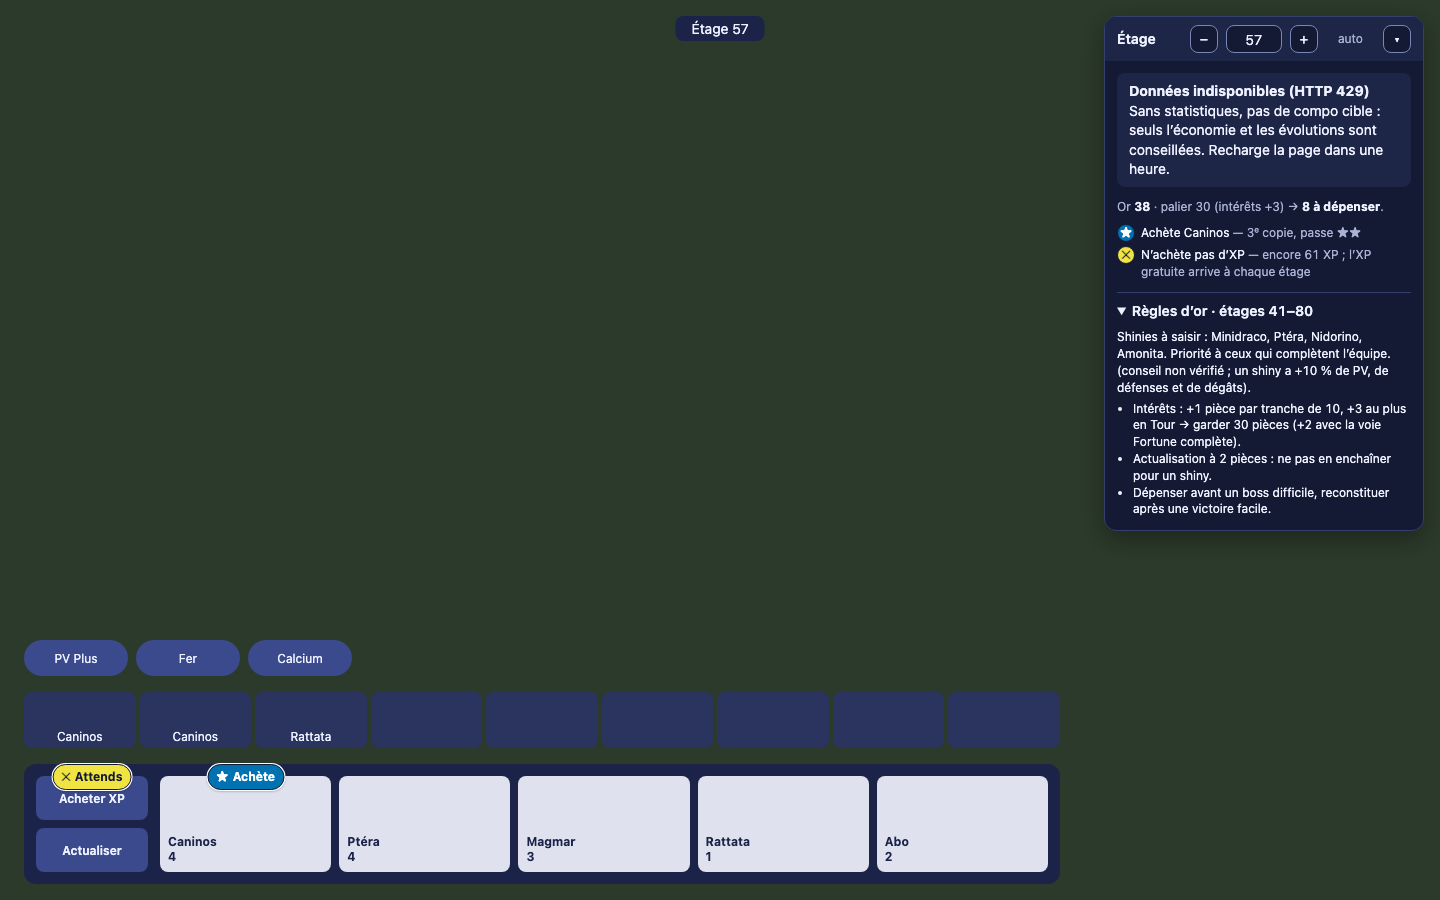
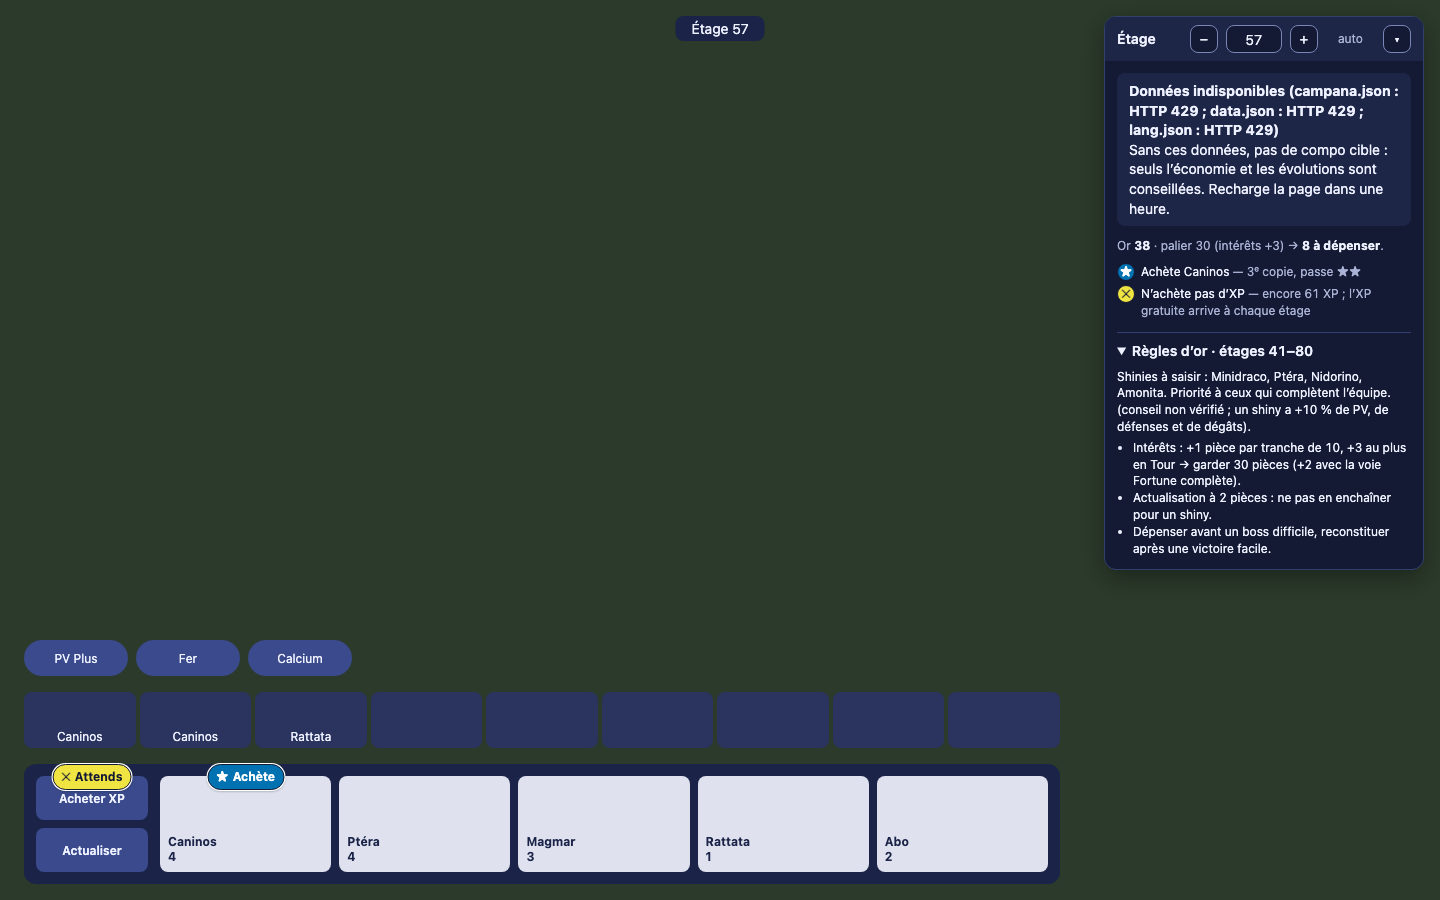
Revue 1 : sources indépendantes, or réel, focus préservé
Chargement source par source (le boss reste affiché si data.json ou
lang.json échoue), lecture du corps sous le repli réseau, Cache Storage
indisponible signalé, étage manuel conservé, ★ seulement si l'or suffit,
pas de fusion impossible ni de sceau risqué conseillé, pastilles et
panneau réécrits seulement s'ils changent.

Changed region(s): [[0.75, 0.0933, 1.0, 0.6533]]

diff --git a/kanto-overlay.user.js b/kanto-overlay.user.js
@@ -161,9 +161,12 @@ const KT = (() => {
     return save !== null && typeof save === 'object' && Number.isFinite(save.round) ? save : null;
   }
 
+  const floorOf = round => Math.max(1, Math.floor(round) - ROUND_BASE + 1);
+  const coreKey = core => [...core].sort().join('+');
+
   function floorFromSave(raw) {
     const save = parseSave(raw);
-    return save && Math.max(1, Math.floor(save.round) - ROUND_BASE + 1);
+    return save && floorOf(save.round);
   }
 
   function parseStop(stop) {
@@ -190,7 +193,7 @@ const KT = (() => {
       && d.recipes.every(r => Array.isArray(r) && r.length === 3);
   }
 
-  const isLang = l => isObject(l?.items) && isObject(l.seals) && isObject(l.types);
+  const isLang = l => isObject(l?.items) && isObject(l.seals);
 
   const isFresh = (at, now) => Number.isFinite(at) && now - at >= 0 && now - at < CACHE_MAX_AGE;
 
@@ -244,7 +247,6 @@ const KT = (() => {
       stage: (base, n) => LINES[base]?.[n] ?? base,
       item: id => lang?.items[id]?.name ?? id,
       seal: id => lang?.seals[id]?.name ?? id,
-      type: id => lang?.types[id] ?? id,
     };
   }
 
@@ -271,7 +273,7 @@ const KT = (() => {
       ...(save.bench ?? []).map((id, slot) => ({ id, slot })).filter(p => p.id)];
     const units = placed.map(p => ({ ...save.units[p.id], ...p })).filter(u => typeof u.line === 'string');
     return {
-      floor: Math.max(1, Math.floor(save.round) - ROUND_BASE + 1),
+      floor: floorOf(save.round),
       gold: save.gold, level: save.level, xp: save.xp, hp: save.hp,
       units,
       bench: save.bench ?? [],
@@ -300,7 +302,7 @@ const KT = (() => {
     const floor = goldFloor(game.boons);
     const allIn = game.hp < LOW_HP || (here !== undefined && here.win < HARD_WIN);
     const nextWall = stops.find(s => s.win < HARD_WIN) ?? null;
-    return { gold: game.gold, floor, spend: Math.max(0, game.gold - floor), allIn, lowHp: game.hp < LOW_HP, nextWall };
+    return { gold: game.gold, floor, spend: allIn ? game.gold : Math.max(0, game.gold - floor), allIn, lowHp: game.hp < LOW_HP, nextWall };
   }
 
   function lineLo(torre, id) {
@@ -309,7 +311,7 @@ const KT = (() => {
 
   function coreScore(core, stops, coresByStop, game) {
     const total = stops.reduce((s, st) => s + st.weight, 0);
-    const key = [...core].sort().join('+');
+    const key = coreKey(core);
     const stat = stops.reduce((s, st) => s + st.weight * (coresByStop.get(st.stop)?.get(key)?.lo ?? 0), 0) / total;
     const owned = core.reduce((s, id) => {
       const star = bestStar(game, baseLine(id));
@@ -336,7 +338,7 @@ const KT = (() => {
     if (!stops.length) return null;
     const coresByStop = new Map(stops.map(st => [st.stop, new Map(torre.cores
       .filter(c => c.stop === st.stop && c.n >= MIN_FIGHTS)
-      .map(c => [[...c.core].sort().join('+'), c]))]));
+      .map(c => [coreKey(c.core), c]))]));
     const candidates = new Map();
     for (const m of coresByStop.values()) for (const [key, c] of m) candidates.set(key, c.core);
     if (!candidates.size) return null;
@@ -369,12 +371,20 @@ const KT = (() => {
     return star >= 2 ? '★'.repeat(star) : `${ones(game, base)}/3`;
   }
 
-  // Marque : { level: 'do' | 'opt' | 'no', label, title, why, lines[] } ; label = texte de la pastille.
-  const mark = (level, label, title, why, lines = []) => ({ level, label, title, why, lines });
+  // Marque : { level: 'do' | 'opt' | 'no', label, title, why } ; label = texte de la pastille, vide = conseil du panneau seul.
+  const mark = (level, label, title, why) => ({ level, label, title, why });
 
   function shopMarks(game, target, data, eco, names) {
     const core = target ? target.core.map(baseLine) : [];
     const wanted = targetBases(target);
+    // Or restant après les achats ★ des cartes précédentes (de gauche à droite).
+    let budget = game.gold;
+    const buy = (cost, name, why) => {
+      // Coût inconnu (données de jeu indisponibles) : le conseil ne peut pas vérifier l'or.
+      if (cost !== undefined && cost > budget) return mark('opt', 'Si l’or', `Achète ${name} dès que possible`, `${why} ; il manque de l’or`);
+      budget -= cost ?? 0;
+      return mark('do', 'Achète', `Achète ${name}`, why);
+    };
     return game.shop.map((base, i) => {
       if (!base) return null;
       const name = names.line(base);
@@ -382,9 +392,9 @@ const KT = (() => {
       const inTarget = wanted.includes(base);
       const cost = lineInfo(data, base)?.c;
       const keepsFloor = (cost !== undefined && game.gold - cost >= eco.floor) || eco.allIn;
-      if (triple && (inTarget || !target)) return mark('do', 'Achète', `Achète ${name}`, '3ᵉ copie, passe ★★');
-      if (core.includes(base)) return mark('do', 'Achète', `Achète ${name}`, 'cœur de la compo cible');
-      if (game.shopShiny[i] && inTarget) return mark('do', 'Achète', `Achète ${name} shiny`, '+10 % PV, défenses et dégâts');
+      if (triple && (inTarget || !target)) return buy(cost, name, '3ᵉ copie, passe ★★');
+      if (core.includes(base)) return buy(cost, name, 'cœur de la compo cible');
+      if (game.shopShiny[i] && inTarget) return buy(cost, `${name} shiny`, '+10 % PV, défenses et dégâts');
       if (!target) return null;
       if ((inTarget || triple) && keepsFloor) {
         return mark('opt', 'Si l’or', `${name} si l’or reste ≥ ${eco.floor}`, triple ? '3ᵉ copie hors compo' : 'renforce le plateau de la compo');
@@ -490,7 +500,7 @@ const KT = (() => {
           if (a !== id && b !== id) continue;
           const partner = a === id ? b : a;
           const ready = on.includes(partner) || bagCount(partner) >= (partner === id ? 2 : 1);
-          if (ready || eco.allIn) {
+          if (ready) {
             marks[i] = mark('do', `→ ${who}`, `${names.item(a)} + ${names.item(b)} → ${who}`, `${names.item(full)}, meilleur objet de sa lignée en Tour`);
             return;
           }
@@ -561,7 +571,7 @@ const KT = (() => {
     const best = Math.max(...scored.filter(Boolean).map(x => x.s));
     const marks = scored.map(x => {
       if (!x) return null;
-      if (x.s === best && scored.find(y => y?.s === best) === x) {
+      if (best > 0 && x.s === best && scored.find(y => y?.s === best) === x) {
         const path = boonPath(x.id);
         const why = x.seal ? 'sceau le plus utile pour ta situation'
           : game.hp < LOW_HP && HEAL_BOONS.includes(x.id) ? `PV bas (${game.hp})`
@@ -595,9 +605,8 @@ const KT = (() => {
     const tank = roleBase('tank');
     const units = ids.map(id => {
       const base = baseLine(id);
-      const owned = unitsOf(game, base);
       const h = holders.find(x => baseLine(x.unit.line) === base);
-      return { line: id, base, star: Math.max(1, bestStar(game, base)), items: h ? h.ideal : [], ranged: (lineInfo(data, base)?.range ?? 1) > 1, owned: owned.length > 0 };
+      return { line: id, base, star: Math.max(1, bestStar(game, base)), items: h ? h.ideal : [], ranged: (lineInfo(data, base)?.range ?? 1) > 1 };
     });
     const front = units.filter(u => !u.ranged).sort((a, b) => Number(b.base === tank) - Number(a.base === tank));
     const back = units.filter(u => u.ranged).sort((a, b) => Number(b.base === carry) - Number(a.base === carry));
@@ -744,8 +753,18 @@ const TARGETS = {
 const TOWER_HUD = '.topbar .rtrack.tw';
 const COMPACT_BELOW = 64;
 
+async function openCache() {
+  try {
+    return await caches.open(KT.CACHE_NAME);
+  } catch (e) {
+    // Firefox refuse le Cache Storage en navigation privée ou quand le stockage du site est bloqué.
+    if (e instanceof DOMException) throw new Error('cache du navigateur indisponible : navigation privée ou stockage bloqué');
+    throw e;
+  }
+}
+
 async function loadJson(url) {
-  const cache = await caches.open(KT.CACHE_NAME);
+  const cache = await openCache();
   const hit = await cache.match(url);
   const at = Number(hit?.headers.get('x-kt-at'));
   const now = Date.now();
@@ -757,20 +776,21 @@ async function loadJson(url) {
     return { json: await hit.json(), at, stale: true };
   };
   let res;
+  let body;
   try {
     res = await fetch(url, etag ? { headers: { 'If-None-Match': etag } } : {});
+    body = res.ok ? await res.text() : null;
   } catch (e) {
-    // fetch ne rejette qu'avec TypeError en cas d'échec réseau.
+    // fetch et la lecture du corps ne rejettent qu'avec TypeError en cas d'échec réseau.
     if (e instanceof TypeError) return stale('réseau');
     throw e;
   }
   if (res.status === 304 && hit) {
-    const body = await hit.text();
-    await cache.put(url, new Response(body, { headers: { 'content-type': 'application/json', etag: etag ?? '', 'x-kt-at': String(now) } }));
-    return { json: JSON.parse(body), at: now, stale: false };
+    const cached = await hit.text();
+    await cache.put(url, new Response(cached, { headers: { 'content-type': 'application/json', etag: etag ?? '', 'x-kt-at': String(now) } }));
+    return { json: JSON.parse(cached), at: now, stale: false };
   }
   if (!res.ok) return stale(`HTTP ${res.status}`);
-  const body = await res.text();
   let json;
   try {
     json = JSON.parse(body);
@@ -785,7 +805,7 @@ async function loadJson(url) {
 function mount() {
   const esc = s => String(s).replace(/[&<>"']/g, c => `&#${c.charCodeAt(0)};`);
   const ui = { x: null, y: 16, collapsed: false, guide: true, side: 'left', target: null, ...JSON.parse(localStorage.getItem(KT.UI_KEY) ?? '{}') };
-  const state = { floor: null, source: 'manuel', lastRaw: undefined, save: null, torre: null, data: null, lang: null, error: null, stale: null, advice: null, copied: null };
+  const state = { floor: null, source: 'manuel', lastRaw: undefined, lastAuto: null, save: null, torre: null, data: null, lang: null, error: null, stale: null, advice: null, copied: null };
 
   const host = document.createElement('div');
   const root = host.attachShadow({ mode: 'open' });
@@ -895,22 +915,32 @@ ${state.advice ? planHtml(state.advice) : ''}
   }
 
   function contentHtml() {
-    if (state.error) {
-      const more = state.floor ? '' : ' Saisis l’étage pour afficher les règles d’or.';
-      const plan = state.advice ? planHtml(state.advice) : '';
-      return `<p class="kt-msg" role="alert"><strong>Données indisponibles (${esc(state.error)})</strong>Sans statistiques, pas de compo cible : seuls l’économie et les évolutions sont conseillées. Recharge la page dans une heure.${more}</p>${plan}${state.floor ? guideHtml(state.floor) : ''}`;
+    const alert = state.error
+      ? `<p class="kt-msg" role="alert"><strong>Données indisponibles (${esc(state.error)})</strong>Sans ces données, pas de compo cible : seuls l’économie et les évolutions sont conseillées. Recharge la page dans une heure.</p>`
+      : '';
+    if (state.error && !state.torre) {
+      const more = state.floor ? '' : '<p class="kt-msg">Saisis l’étage pour afficher les règles d’or.</p>';
+      return `${alert}${state.advice ? planHtml(state.advice) : ''}${more}${state.floor ? guideHtml(state.floor) : ''}`;
     }
     if (!state.torre) return '<p class="kt-msg" role="status">Chargement des statistiques de la Tour…</p>';
-    if (!state.floor) return '<p class="kt-msg"><strong>Aucune partie Tour en cours</strong>Les conseils d’achat apparaissent dès qu’une partie Tour est lancée ; tu peux aussi saisir l’étage ci-dessus.</p>';
-    return `${bossHtml()}${guideHtml(state.floor)}`;
+    if (!state.floor) return `${alert}<p class="kt-msg"><strong>Aucune partie Tour en cours</strong>Les conseils d’achat apparaissent dès qu’une partie Tour est lancée ; tu peux aussi saisir l’étage ci-dessus.</p>`;
+    return `${alert}${bossHtml()}${guideHtml(state.floor)}`;
   }
 
   // Pastilles : nœuds de l'overlay posés sur les éléments du jeu, jamais insérés dans le jeu (un clic n'y achète rien).
+  let lastHtml = null;
+  let lastPins = null;
   let pins = [];
   function paint() {
+    const a = state.advice;
+    const sig = JSON.stringify(a && Object.keys(TARGETS).map(g => a[g]));
+    if (sig === lastPins) {
+      position();
+      return;
+    }
+    lastPins = sig;
     layer.replaceChildren();
     pins = [];
-    const a = state.advice;
     if (!a) return;
     let n = 0;
     for (const [group, t] of Object.entries(TARGETS)) {
@@ -934,8 +964,10 @@ ${state.advice ? planHtml(state.advice) : ''}
   function position() {
     const tower = document.querySelector(TOWER_HUD) !== null;
     const modal = document.querySelector('.modal') !== null;
+    const found = new Map();
     for (const { pin, t, i } of pins) {
-      const all = [...document.querySelectorAll(t.sel)];
+      if (!found.has(t.sel)) found.set(t.sel, [...document.querySelectorAll(t.sel)]);
+      const all = found.get(t.sel);
       const el = t.by ? all.find(e => t.by(e, i)) : all[i];
       const r = el?.getBoundingClientRect();
       const show = tower && t.modal === modal && r !== undefined && r.width > 0 && r.height > 0;
@@ -957,9 +989,11 @@ ${state.advice ? planHtml(state.advice) : ''}
   };
 
   function compute() {
+    const code = state.advice?.code;
     state.advice = state.save && (state.torre || state.error)
       ? KT.advise({ torre: state.torre, data: state.data, lang: state.lang, save: state.save, previous: ui.target, side: ui.side })
       : null;
+    if (state.advice?.code !== code) state.copied = null;
     const key = state.advice?.target?.key ?? ui.target;
     if (key !== ui.target) {
       ui.target = key;
@@ -975,7 +1009,12 @@ ${state.advice ? planHtml(state.advice) : ''}
     src.textContent = state.source;
     if (root.activeElement !== input) input.value = state.floor ?? '';
     input.classList.toggle('is-empty', !state.floor);
-    body.innerHTML = contentHtml();
+    // Réécrire seulement ce qui change : un focus ou une bulle ouverte survit aux réécritures de la sauvegarde.
+    const html = contentHtml();
+    if (html !== lastHtml) {
+      body.innerHTML = html;
+      lastHtml = html;
+    }
     foot.hidden = !state.torre;
     if (state.torre) {
       const cached = state.stale ? ` · copie du ${esc(new Date(state.stale).toLocaleString('fr-FR', { dateStyle: 'short', timeStyle: 'short' }))}` : '';
@@ -996,12 +1035,17 @@ ${state.advice ? planHtml(state.advice) : ''}
     if (raw === state.lastRaw) return;
     state.lastRaw = raw;
     state.save = KT.parseSave(raw);
-    if (state.save) {
-      state.floor = KT.floorFromSave(raw);
-      state.source = 'auto';
-    } else if (state.source === 'auto') {
-      state.floor = null;
-      state.source = 'manuel';
+    // L'étage saisi à la main tient jusqu'à ce que la sauvegarde change d'étage.
+    const f = KT.floorFromSave(raw);
+    if (f !== state.lastAuto) {
+      state.lastAuto = f;
+      if (f !== null) {
+        state.floor = f;
+        state.source = 'auto';
+      } else if (state.source === 'auto') {
+        state.floor = null;
+        state.source = 'manuel';
+      }
     }
     compute();
     render();
@@ -1090,25 +1134,32 @@ ${state.advice ? planHtml(state.advice) : ''}
   pollSave();
   setInterval(pollSave, 2000);
 
-  const check = (ok, json) => {
-    if (!ok) throw new Error('format inattendu');
-    return json;
-  };
-  Promise.all([KT.SOURCES.torre, KT.SOURCES.data, KT.SOURCES.lang].map(loadJson))
-    .then(([torre, data, lang]) => {
-      state.torre = check(KT.isTowerData(torre.json?.modes?.torre), torre.json.modes.torre);
-      state.data = check(KT.isGameData(data.json), data.json);
-      state.lang = check(KT.isLang(lang.json), lang.json);
-      const stale = [torre, data, lang].filter(r => r.stale).map(r => r.at);
-      state.stale = stale.length ? Math.min(...stale) : null;
-      compute();
-      render();
-    })
-    .catch(err => {
-      state.error = err.message;
-      compute();
-      render();
+  // Sources indépendantes : sans data.json ou lang.json, le prochain boss et les trios restent affichés.
+  const sources = [
+    ['torre', 'campana.json', KT.SOURCES.torre, j => j?.modes?.torre, KT.isTowerData],
+    ['data', 'data.json', KT.SOURCES.data, j => j, KT.isGameData],
+    ['lang', 'lang.json', KT.SOURCES.lang, j => j, KT.isLang],
+  ];
+  Promise.allSettled(sources.map(([, , url, pick, ok]) => loadJson(url).then(r => {
+    if (!ok(pick(r.json))) throw new Error('format inattendu');
+    return { ...r, value: pick(r.json) };
+  }))).then(results => {
+    const errors = [];
+    const stale = [];
+    results.forEach((r, i) => {
+      const [key, file] = sources[i];
+      if (r.status === 'rejected') {
+        errors.push(`${file} : ${r.reason.message}`);
+        return;
+      }
+      state[key] = r.value.value;
+      if (r.value.stale) stale.push(r.value.at);
     });
+    state.error = errors.length ? errors.join(' ; ') : null;
+    state.stale = stale.length ? Math.min(...stale) : null;
+    compute();
+    render();
+  });
 }
 
 if (typeof module !== 'undefined') module.exports = KT;

diff --git a/test/logic.test.js b/test/logic.test.js
@@ -65,6 +65,10 @@ test('forme des données : Tour, données de jeu, langue', () => {
   assert.equal(KT.isTowerData({ ...torre, cores: [{ stop: '5:brock', core: ['abra'], n: 30, win: 90 }] }), false);
   assert.equal(KT.isTowerData({ ...torre, holders: [{ line: 'abra', id: 'leftovers', n: 30 }] }), false);
   assert.equal(KT.isTowerData({ ...torre, stops: [{ stop: '9:elite', win: 50, first: 40, tries: 2 }] }), false);
+  const ok = { stop: '5:brock', win: 50, first: 40, tries: 2 };
+  assert.equal(KT.isTowerData({ ...torre, stops: [ok, null] }), false);
+  assert.equal(KT.isTowerData({ ...torre, stops: [ok, { ...ok, stop: 'brock' }] }), false);
+  assert.equal(KT.isTowerData({ ...torre, cores: [null] }), false);
   assert.equal(KT.isGameData(data), true);
   assert.equal(KT.isGameData({ ...data, recipes: [['a', 'b']] }), false);
   assert.equal(KT.isGameData({ ...data, lines: { abra: { c: 1 } } }), false);
@@ -121,6 +125,7 @@ test('tout jouer : combat de l’étage sous 45 %, ou PV sous 40', () => {
   assert.equal(at(1056, 62).allIn, false);
   assert.equal(at(1056, 62).nextWall.floor, 60);
   assert.equal(at(1056, 62).spend, 8);
+  assert.equal(at(1059, 62).spend, 38);
   assert.equal(at(1059, 62).allIn, true);
   assert.equal(at(1056, 39).allIn, true);
 });
@@ -156,6 +161,13 @@ test('boutique : ★ 3ᵉ copie et cœur, ◆ si l’or, ✕ hors compo', () => 
   assert.equal(brief(poor.shop[2]), 'no Ignore');
   const shiny = advise({ ...S57, shopShiny: [false, false, true, false, false] });
   assert.equal(brief(shiny.shop[2]), 'do Achète');
+});
+
+test('boutique : ★ seulement si l’or suffit, de gauche à droite ; le reste ne compte pas dans l’or engagé', () => {
+  const a = advise({ ...S57, gold: 5 });
+  assert.deepEqual(a.shop.slice(0, 2).map(brief), ['do Achète', 'opt Si l’or']);
+  assert.match(a.shop[1].why, /il manque de l’or/);
+  assert.equal(advise({ ...S57, gold: 5, round: 1059 }).reroll, null);
 });
 
 test('boutique sans statistiques : seules les 3ᵉ copies sont marquées', () => {
@@ -202,6 +214,8 @@ test('objets : recette idéale, sinon garder ; fusion immédiate en tout jouer',
   assert.equal(a.bag[1].title, a.bag[2].title);
   const allIn = advise({ ...S57, round: 1059 });
   assert.deepEqual(allIn.bag.map(brief), ['do → Minidraco', 'do → Caninos', 'do → Caninos']);
+  const impossible = advise({ ...S57, round: 1059, items: ['iron'] });
+  assert.notEqual(impossible.bag[0].level, 'do');
   const magnet = advise({ ...S57, level: 4, items: ['magnet'], units: { ...S57.units, e: { id: 'e', line: 'ekans', star: 1, items: ['leftovers'] } } });
   assert.equal(brief(magnet.bag[0]), 'do Retire de Abo');
 });
@@ -229,6 +243,7 @@ test('sceaux : économie tôt, combat en tout jouer, risque évité avec peu de 
   assert.deepEqual(choose(['piggy-bank', 'poke-flute']), ['do Prends', null]);
   assert.deepEqual(choose(['piggy-bank', 'poke-flute'], { round: 1059 }), [null, 'do Prends']);
   assert.deepEqual(choose(['rocket-loan', 'poke-flute'], { hp: 30 }), ['no Évite', 'do Prends']);
+  assert.deepEqual(choose(['rocket-loan', 'life-orb'], { hp: 30 }), ['no Évite', 'no Évite']);
 });
 
 test('ancrage : conseillé si la compo vise une forme ancrée non encore choisie', () => {
